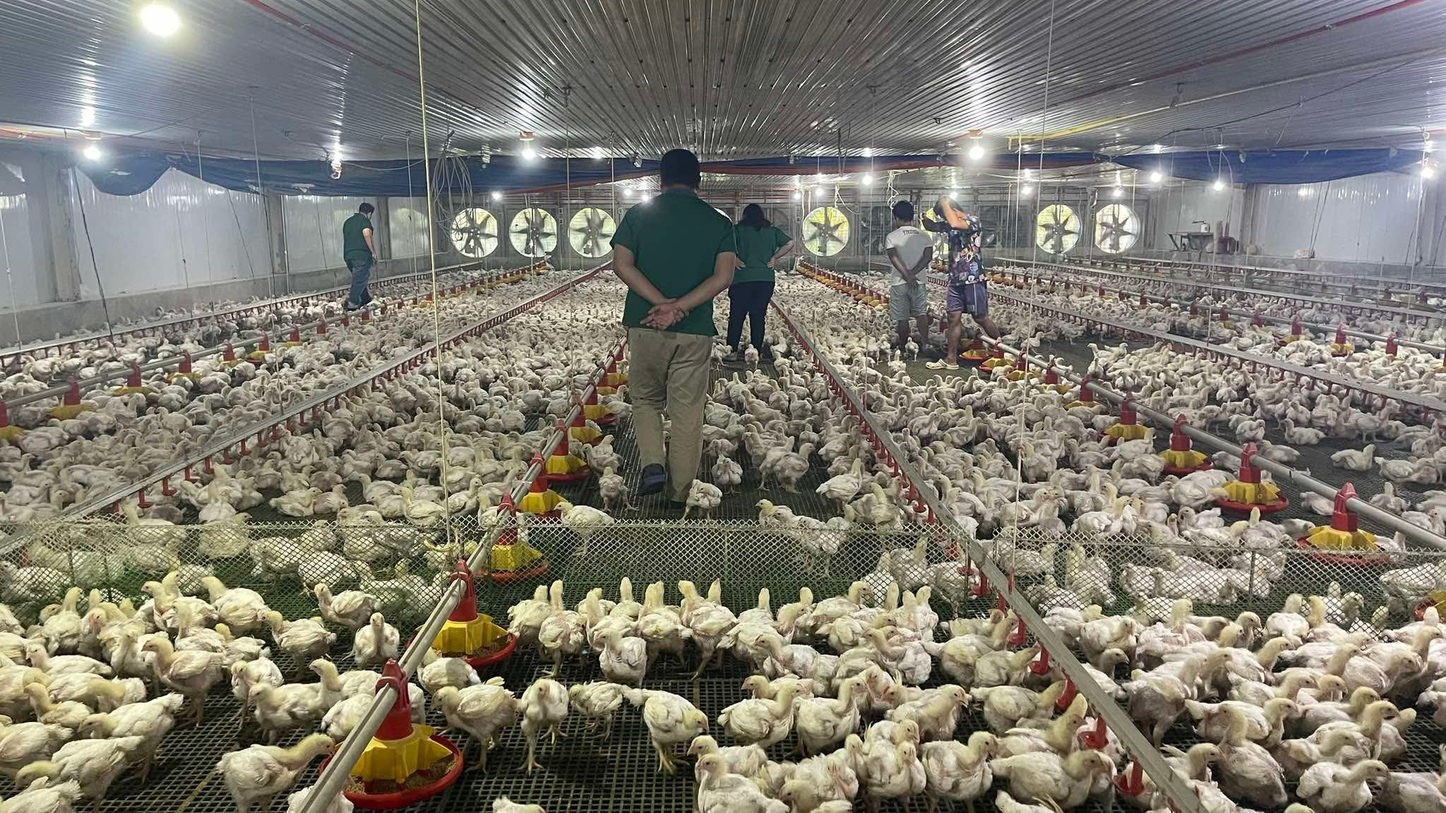
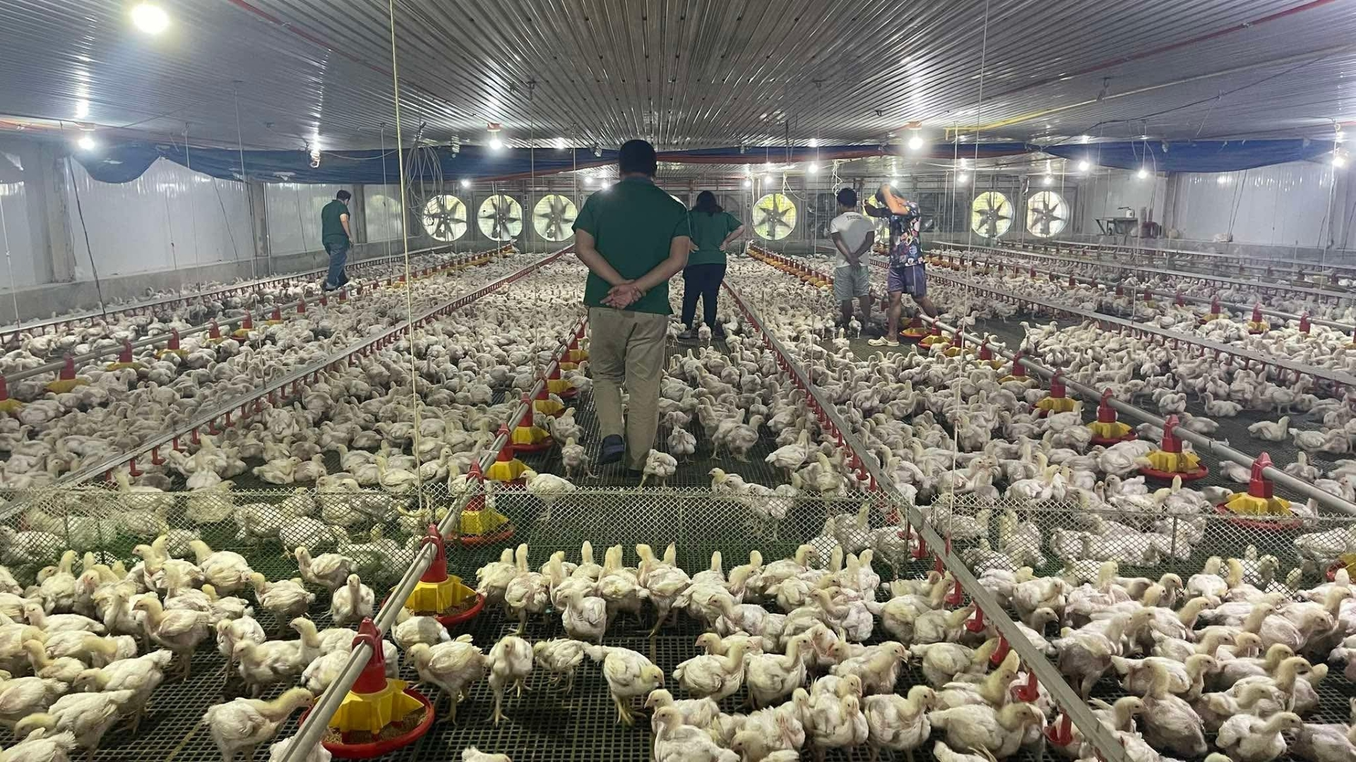
add: new image, image pane styling | refactor: home bg image

Changed region(s): [[0.4688, 0.6417, 0.5, 0.7028], [0.6562, 0.0917, 0.6875, 0.1222]]

diff --git a/app/src/main/kotlin/org/db_poultry/controller/HomeController.kt b/app/src/main/kotlin/org/db_poultry/controller/HomeController.kt
@@ -26,6 +26,9 @@ class HomeController: Initializable {
     private lateinit var homeStackPane: StackPane
 
     @FXML
+    private lateinit var bgImageAnchorPane: AnchorPane
+
+    @FXML
     private lateinit var homeBackgroundImageView: ImageView
 
     @FXML
@@ -38,8 +41,8 @@ class HomeController: Initializable {
     private lateinit var homeSuppliesBtn1: Button
 
     override fun initialize(url: URL?, rb: ResourceBundle?) {
-        homeBackgroundImageView.fitWidthProperty().bind(homeStackPane.widthProperty())
-        homeBackgroundImageView.fitHeightProperty().bind(homeStackPane.heightProperty())
+        // homeBackgroundImageView.fitWidthProperty().bind(homeStackPane.widthProperty())
+        // homeBackgroundImageView.fitHeightProperty().bind(homeStackPane.heightProperty())
     }
 
     @FXML

diff --git a/app/src/main/kotlin/org/db_poultry/controller/FlockHomeController.kt b/app/src/main/kotlin/org/db_poultry/controller/FlockHomeController.kt
@@ -32,7 +32,7 @@ class FlockHomeController: Initializable {
 
     override fun initialize(url: URL?, resourceBundle: ResourceBundle?) {
 
-        GeneralUtil.initializeFontSizeManager(flockHomeAnchorPane)
+        // GeneralUtil.initializeFontSizeManager(flockHomeAnchorPane)
 
     }
 

diff --git a/app/src/main/resources/styles/root.css b/app/src/main/resources/styles/root.css
@@ -14,6 +14,12 @@
 }
 
 .h4 {
-    -fx-font-size: 1em;
+    -fx-font-size: 1.2em;
     -fx-font-weight: bold;
+}
+
+.img-container {
+    -fx-background-image: url("../img/main_bg.jpg");
+    -fx-background-size: cover;
+    -fx-background-position: center center;
 }
